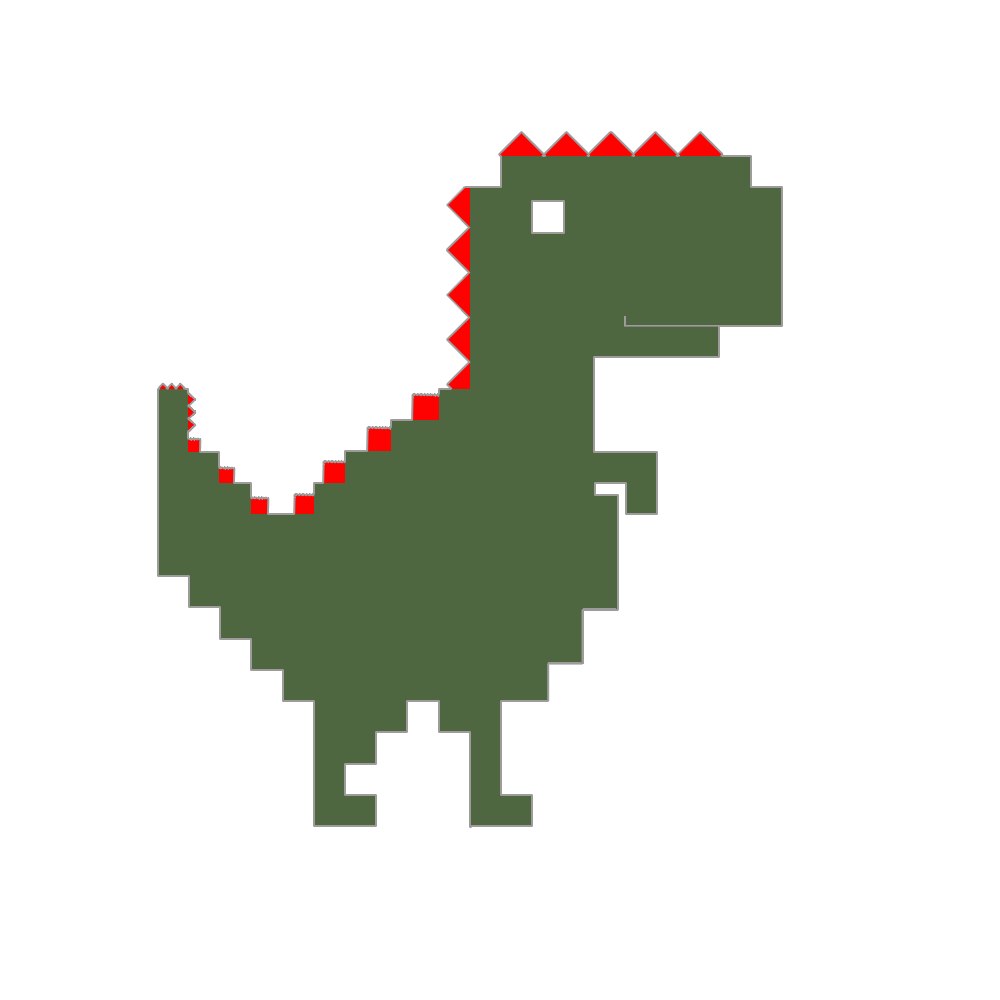
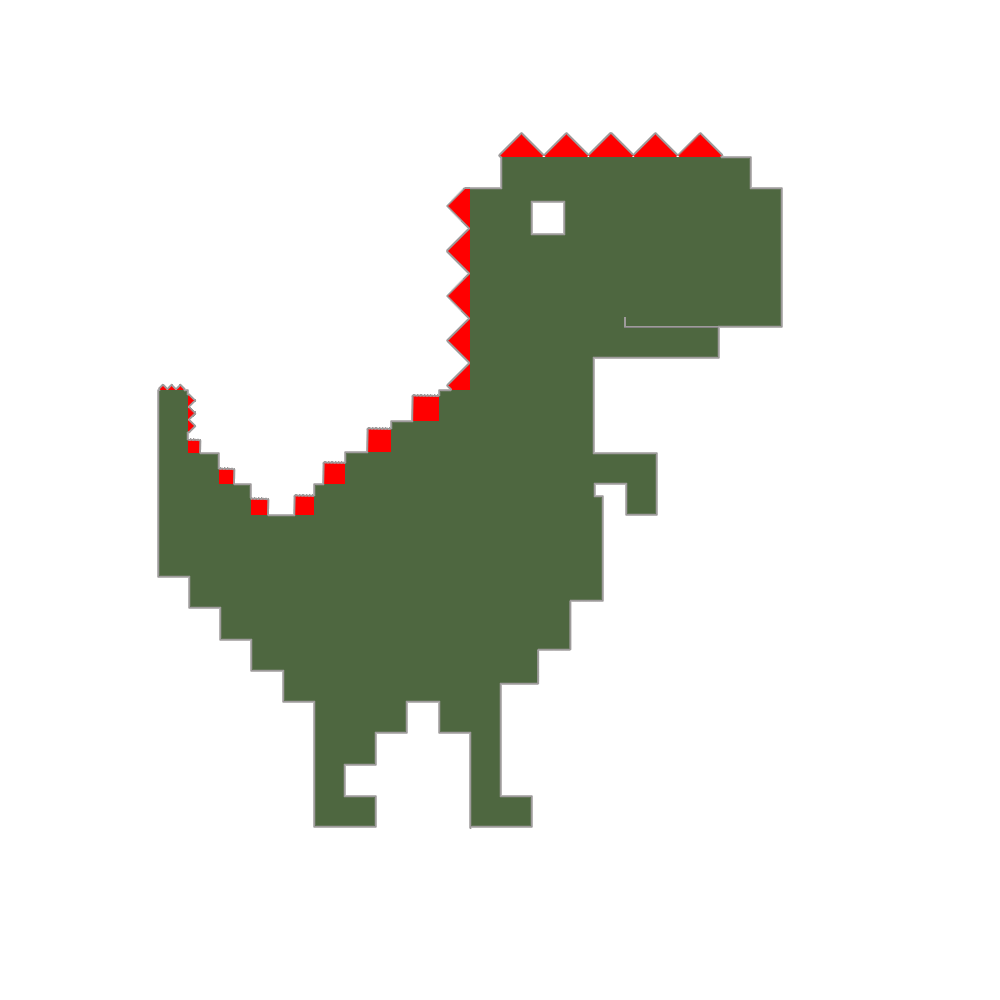
zilla impl

diff --git a/app/components/services/UserService.js b/app/components/services/UserService.js
@@ -9,19 +9,19 @@ angular.module('learnzillaApp')
     service.updateZilla = function updateZilla(){
       switch(user.fettigkeitsgrad) {
         case 1:
-          return 'bauch_stufe1.png';
+          return 'assets/img/bauch_stufe1.png';
           break;
         case 2:
-          return 'bauch_stufe2.png';
+          return 'assets/img/bauch_stufe2.png';
           break;
         case 3:
-          return 'bauch_stufe3.png';
+          return 'assets/img/bauch_stufe3.png';
           break;
         case 4:
-          return 'bauch_stufe4.png';
+          return 'assets/img/bauch_stufe4.png';
           break;
         case 5:
-          return 'bauch_stufe5.png';
+          return 'assets/img/bauch_stufe5.png';
           break;
         default:
         return 'assets/img/mund_zu.png'

diff --git a/app/components/home/story/storyCtrl.js b/app/components/home/story/storyCtrl.js
@@ -2,9 +2,12 @@
 
 angular.module('learnzillaApp')
 
-  .controller('storyCtrl', ['ViewsService', 'Constants',
-    function (ViewsService, Constants) {
+  .controller('storyCtrl', ['ViewsService', 'Constants', 'Model',
+    function (ViewsService, Constants, Model) {
       const vm = this;
+/*      vm.update = function(){
+       return  Model.user.fettigkeitsgrad++;
+      };*/
       vm.setNextView = function setNextView() {
         return ViewsService.setCurrentView(Constants.GAME_MODE);
       }

diff --git a/app/components/home/story/story.html b/app/components/home/story/story.html
@@ -23,4 +23,11 @@
           class="custom"> Start
   </a>
 
+<!--
+  <button
+    ng-click="story.update()"
+          class="custom"> upadte
+  </button>
+-->
+
 </div>
